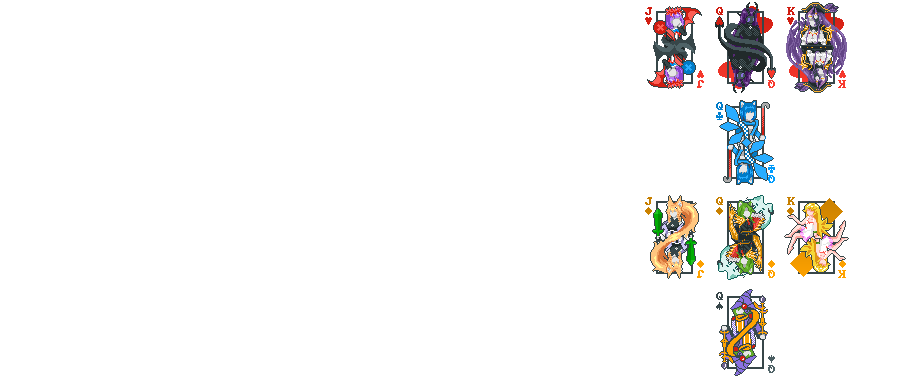
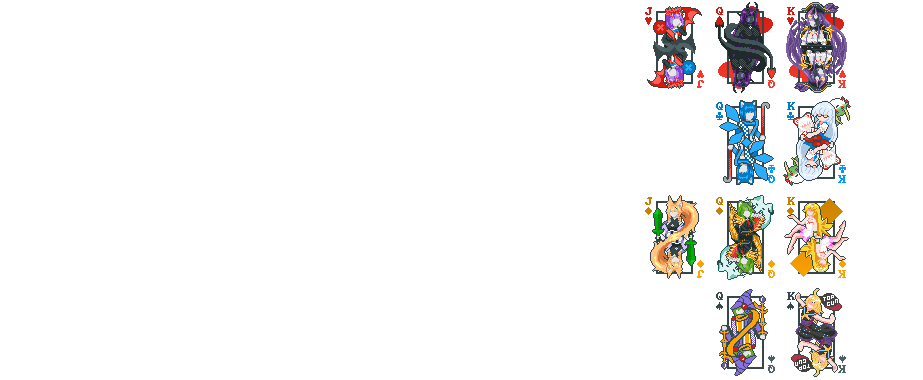
Added 2 Playing Card & Joker Reskins + Other
Added reskins for King of Clubs & Spades, as well as for Matador & Vagabond.

Changed region(s): [[0.8494, 0.2605, 0.9404, 0.4921], [0.8494, 0.7526, 0.9404, 0.9842]]

diff --git a/README.md b/README.md
@@ -17,7 +17,7 @@ DaemonTsun's art contributions are public domain - Some memes or pictures are no
 
 **Cirno_TV & Friends** currently:
 - Retextures:
-  - 119 Jokers (Some get filtered/altered by the Mature Reference setting depending on what it is set to.)
+  - 121 Jokers (Some get filtered/altered by the Mature Reference setting depending on what it is set to.)
   - All Blind Chips
   - All Seals
   - All Planet Cards
@@ -41,7 +41,7 @@ DaemonTsun's art contributions are public domain - Some memes or pictures are no
 
 - Adds:
   - Various fun flavour text to numerous items
-  - A few custom playing card skins
+  - Some custom playing card skins
   - 11 custom Jokers
   - 1 custom Spectral Card
   - 1 custom Challenge
